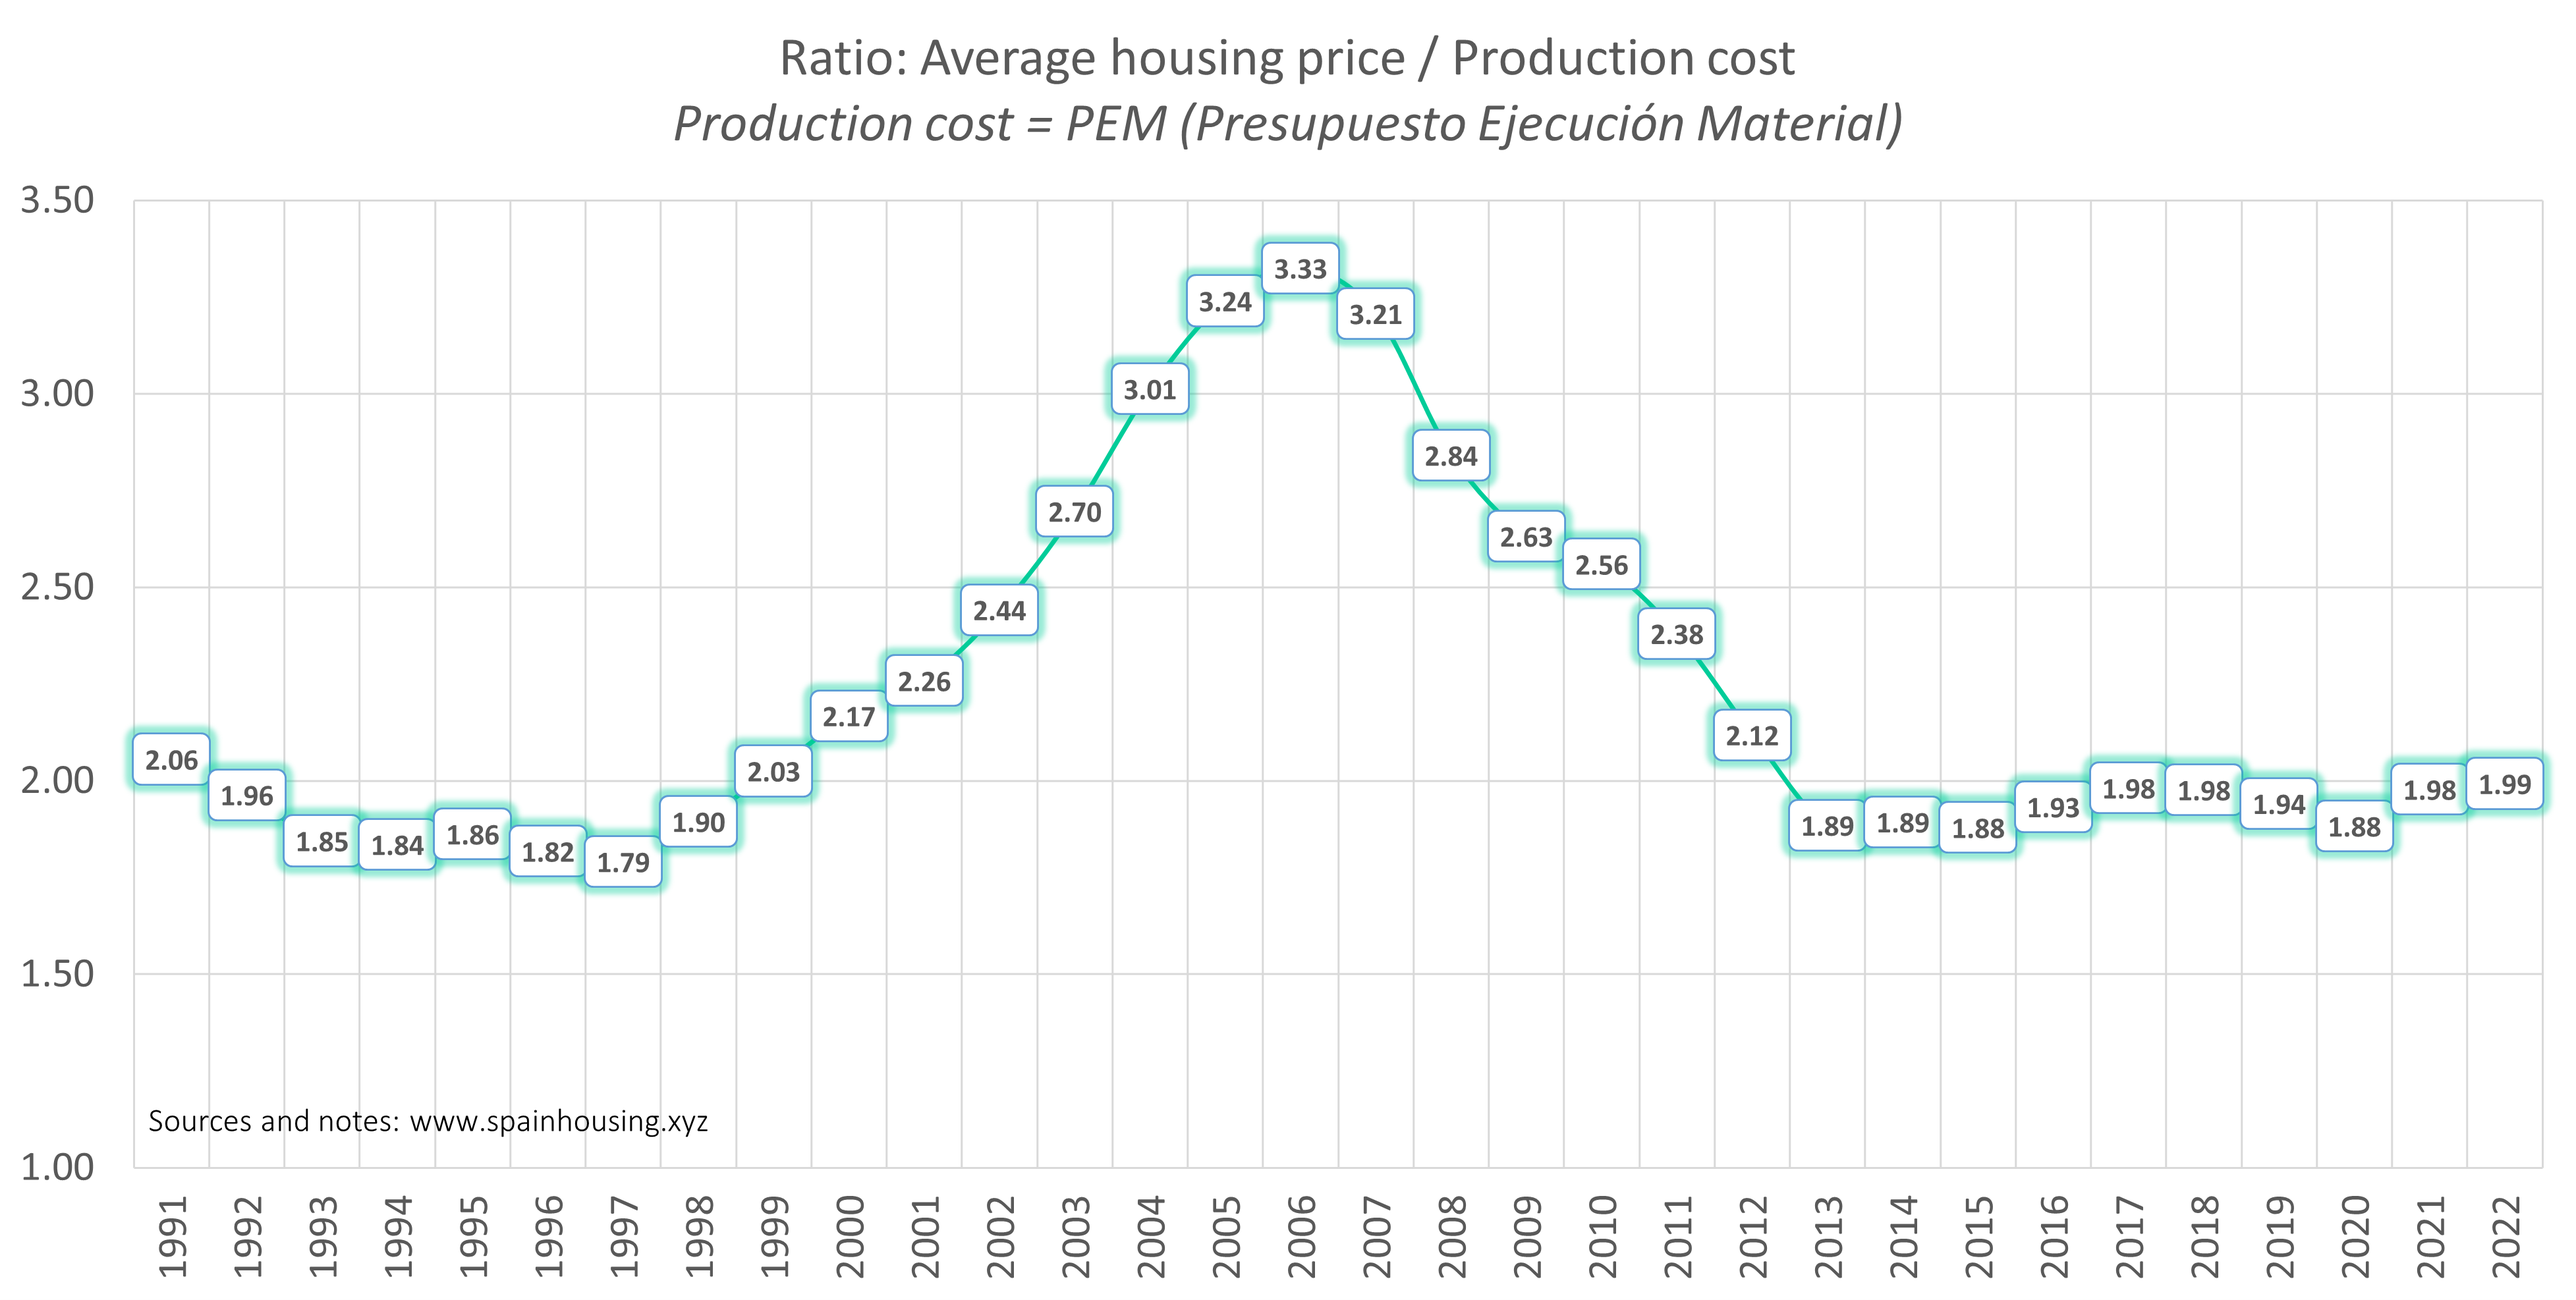
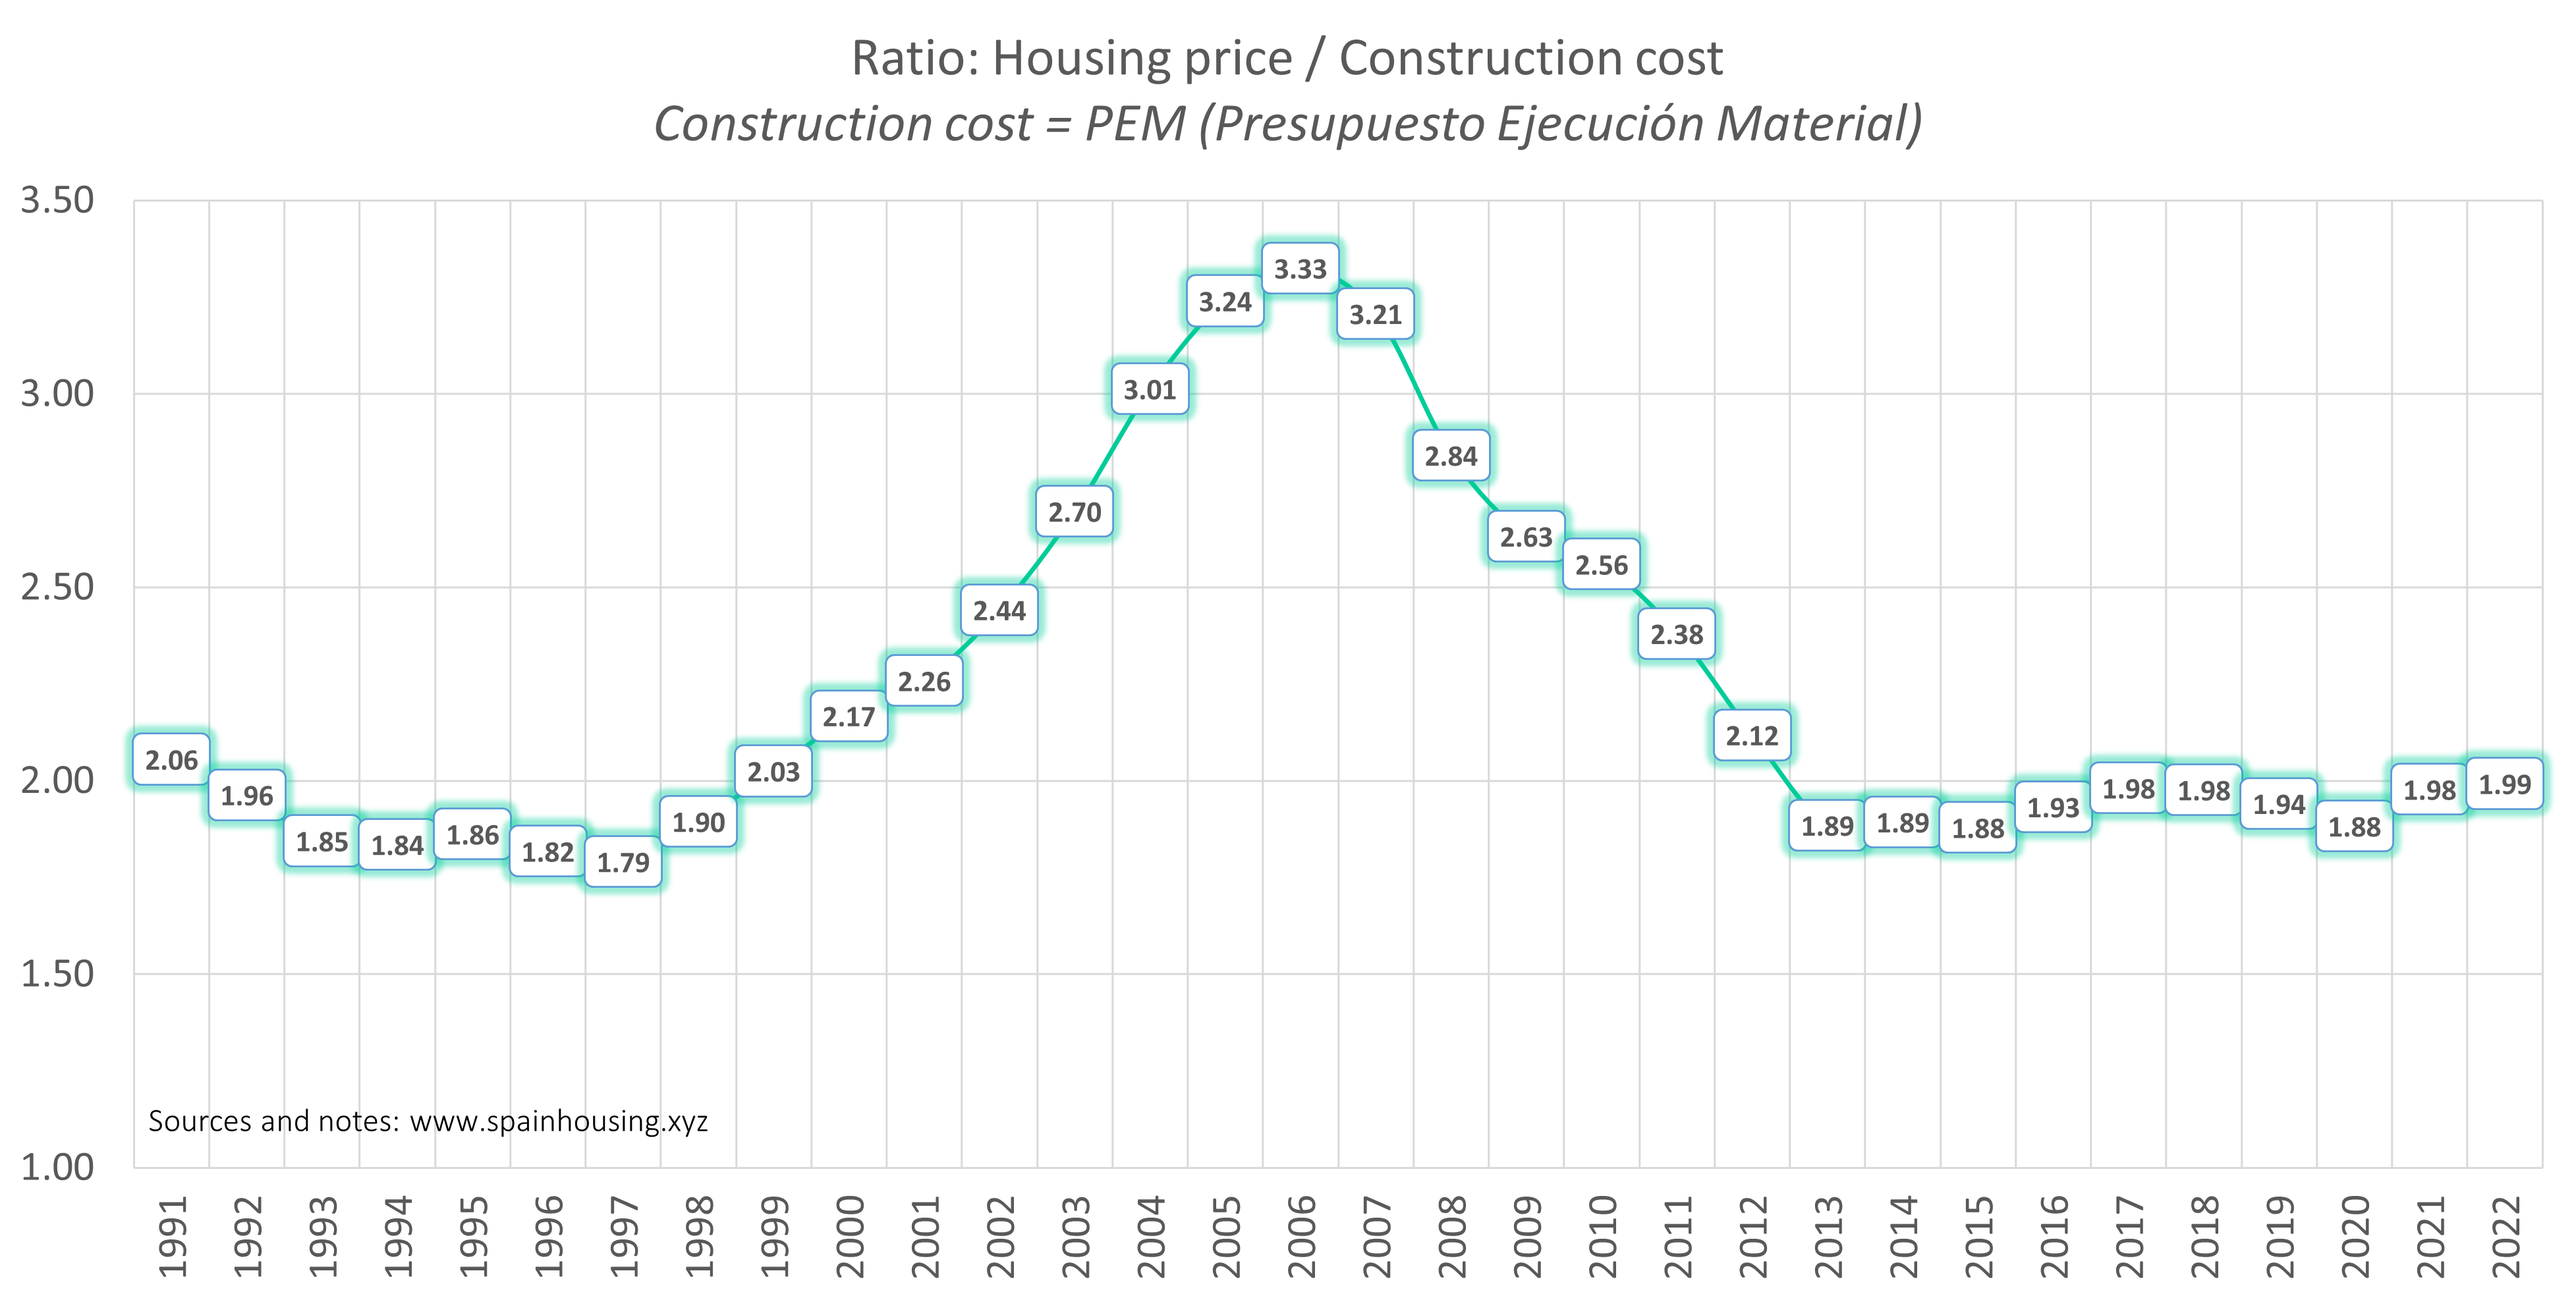
update

Changed region(s): [[0.2496, 0.0309, 0.7488, 0.1236]]

diff --git a/pages/posts/cost.md b/pages/posts/cost.md
@@ -1,8 +1,8 @@
 ---
-title: Type of tenure
+title: Production cost
 date: 2022-10-01
 description:
-tag: Demography
+tag: Price, Volume
 author: Last update on
 ---
 
@@ -12,15 +12,15 @@ import Image from 'next/image'
 
 [![Coste de construcción](/images/costratio.png)](/images/costratio.png)
 
-- **Ratio between the average housing price and the average construction cost:**: if the ratio is (x), it means houses are being sold (x) times the price of production/construction.
+- **Ratio between the average housing price and the average construction cost:** if the ratio is (x), it means houses are being sold (x) times the price of production.
 
 [![Coste de materiales](/images/costchange.png)](/images/costchange.png)
 
-- **Cost of production, in percentage**: Percentage of change to build a new house year-over-year.
+- **Cost of production**: Percentage of annual change in construction costs.
 
 [![Tipo de vivienda](/images/typehouse.png)](/images/typehouse.png)
 
-- **Distribution of new houses build per type, in percentage**.
+- **Distribution of new houses build per type (in percentage)**: Single Family or Condominiums.
 
 # Interpretation and observations
 
